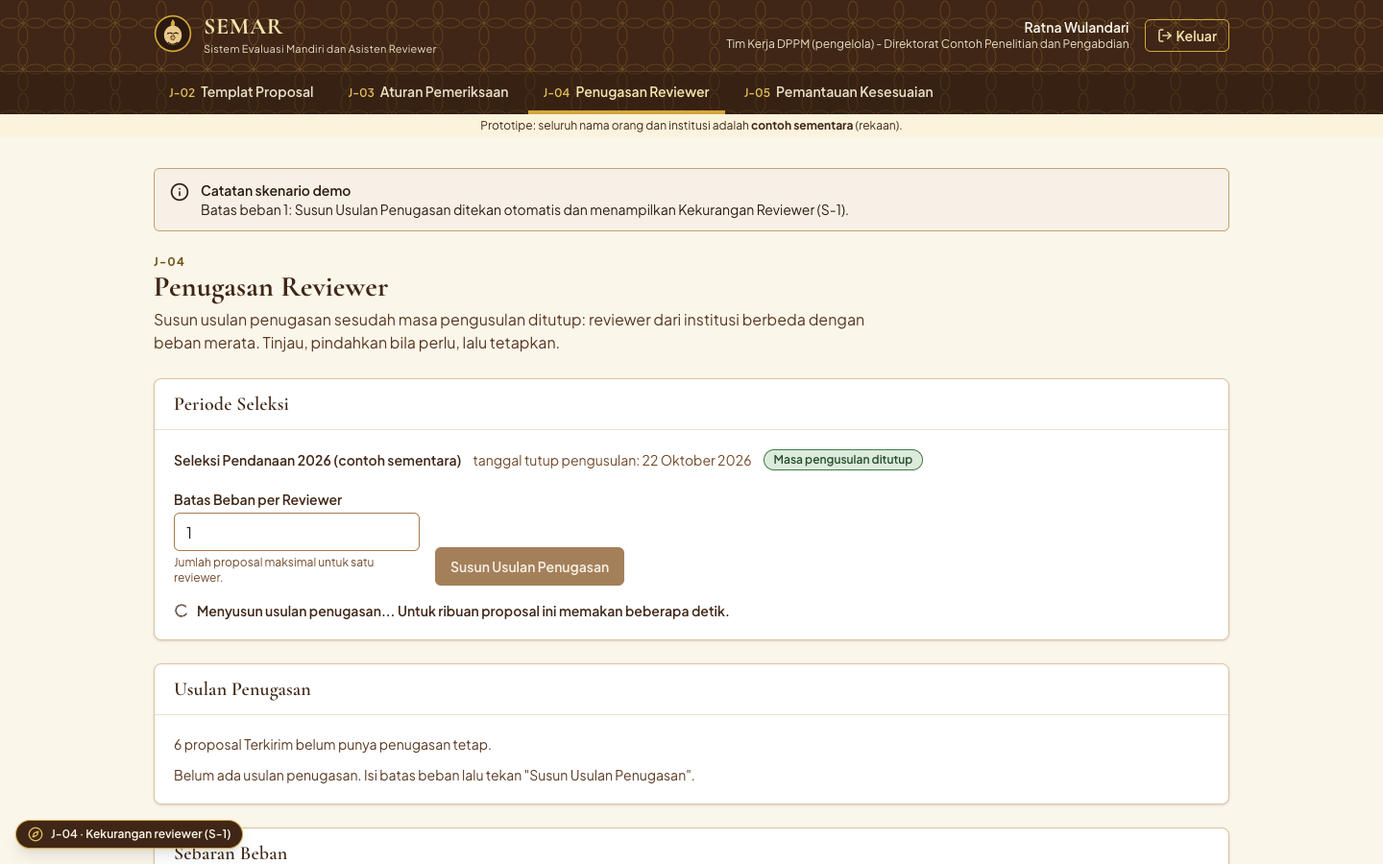
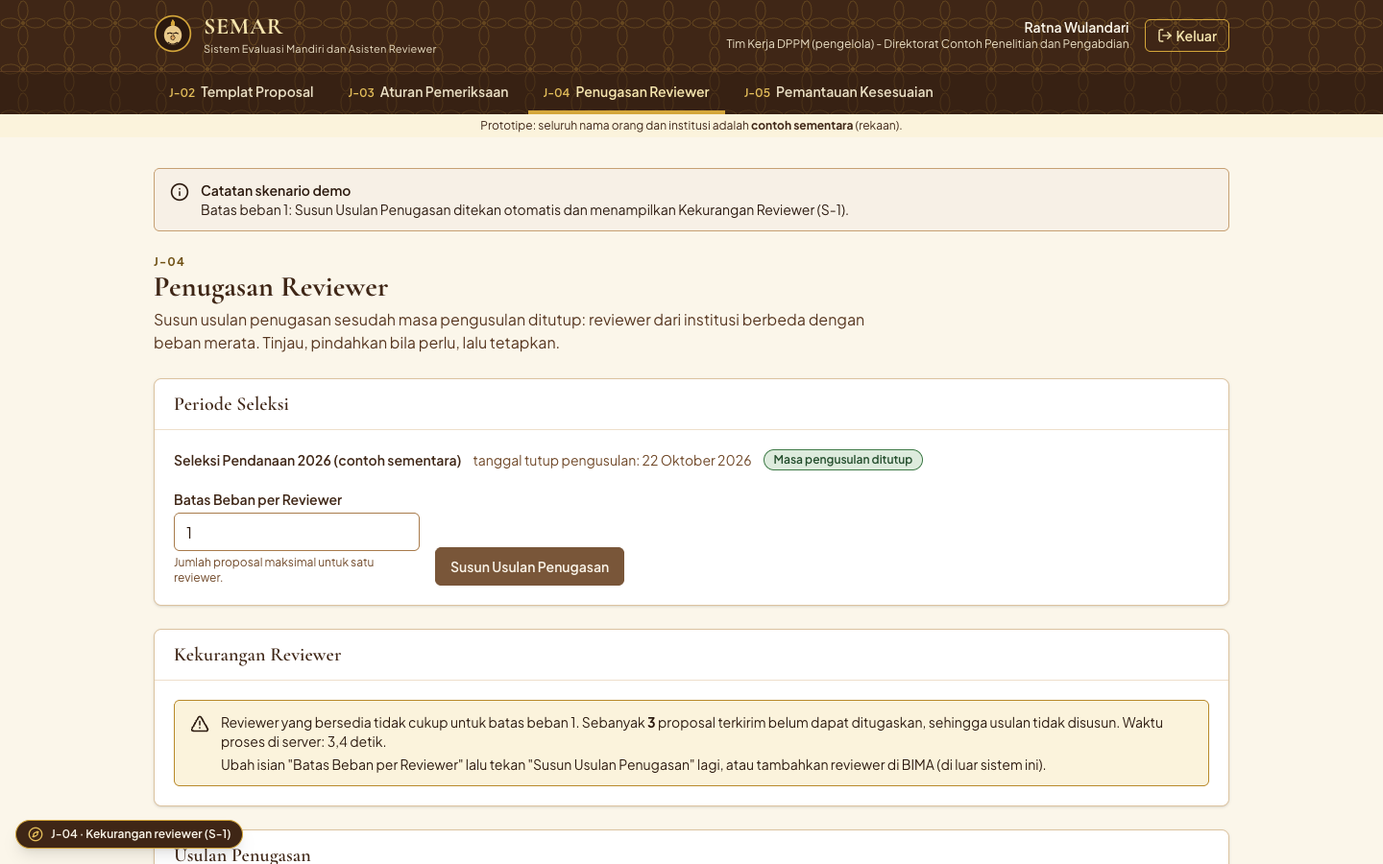
Data skala nyata tidak lagi dihapus skenario lain: kumpulan reviewer skala hanya rvw-skala-*, akun skala disembunyikan dari /bima/masuk, panel S-1 diuji lewat elemen, pil navigator menyebut skenario masuk J-01

Changed region(s): [[0.0938, 0.6222, 0.9062, 1.0]]

diff --git a/e2e/jalankan.ts b/e2e/jalankan.ts
@@ -827,7 +827,12 @@ async function utama() {
       await foto(page, "j04-menunggu");
       c("skenario menunggu: tabel Usulan Penugasan terisi");
 
-      await lewatNavigator("[data-skenario='kekurangan']", "Kekurangan Reviewer", 180_000);
+      await lewatNavigator("[data-skenario='kekurangan']", "Susun Usulan Penugasan", 180_000);
+      // Susun otomatis (?susun=1) harus benar-benar menampilkan panel S-1 di halaman (bukan sekadar teks banner skenario)
+      await page.waitForFunction(() => document.querySelector("#panel-kekurangan h2")?.textContent?.trim() === "Kekurangan Reviewer", { timeout: 180_000 }).catch(() => {
+        throw new Error("panel Kekurangan Reviewer (#panel-kekurangan) tidak muncul sesudah Susun otomatis");
+      });
+      yakin((await teksPanel("Kekurangan Reviewer")).includes("belum dapat ditugaskan"), "isi panel Kekurangan Reviewer tidak memuat jumlah proposal");
       await foto(page, "j04-kekurangan-navigator");
       c("skenario kekurangan: Susun otomatis dan panel Kekurangan Reviewer tampil");
 
@@ -846,7 +851,13 @@ async function utama() {
       await lewatNavigator("[data-skenario='anggota']", "Penugasan Reviewer");
       const menu = await page.$eval("nav[aria-label='Menu Tim Kerja DPPM']", (e) => e.textContent ?? "");
       yakin(!menu.includes("Templat Proposal") && menu.includes("Penugasan Reviewer") && menu.includes("Pemantauan Kesesuaian"), `menu anggota salah: ${menu}`);
+      await tunggu(1500); // hidrasi
+      const pilAnggota = await page.$eval("[data-testid=navigator-pil]", (e) => e.textContent ?? "");
+      yakin(pilAnggota.includes("J-01") && pilAnggota.includes("Masuk sebagai Tim Kerja (anggota)") && !pilAnggota.includes("belum dipilih"), `pil sesudah J-01 anggota salah: ${pilAnggota}`);
       await buka(page, url("/demo/mulai?j=J-01&s=reviewer"), "Daftar Penugasan");
+      await tunggu(1500);
+      const pilRev = await page.$eval("[data-testid=navigator-pil]", (e) => e.textContent ?? "");
+      yakin(pilRev.includes("J-01") && pilRev.includes("Masuk sebagai Reviewer"), `pil sesudah J-01 reviewer salah: ${pilRev}`);
       c("J-01: belum masuk, masuk sebagai anggota (menu J-04/J-05 saja), masuk sebagai reviewer (J-07)");
       // J-02
       await buka(page, url("/demo/mulai?j=J-02&s=tanpa-templat"), "Skema ini belum memiliki templat");
@@ -961,7 +972,7 @@ async function utama() {
       });
       await foto(page, "j04-skala-awal");
 
-      // S-1: batas 60 x ±124 reviewer < 10.000
+      // S-1: batas 60 x ±119 reviewer < 10.000
       await isi(page, "#batas", "60");
       t = Date.now();
       await klik(page, "Susun Usulan Penugasan");
@@ -998,7 +1009,7 @@ async function utama() {
       // sebaran semua reviewer
       const sebaran = await page.$eval("[data-testid=ringkasan-sebaran]", (e) => e.textContent ?? "");
       const m = sebaran.match(/(\d+) reviewer bersedia; jumlah proposal per reviewer terendah (\d+), tertinggi (\d+)/);
-      yakin(m && Number(m[1]) >= 120 && Number(m[3]) <= 100 && Number(m[3]) - Number(m[2]) <= 2, `sebaran beban tidak merata: ${sebaran}`);
+      yakin(m && Number(m[1]) >= 115 && Number(m[1]) <= 130 && Number(m[3]) <= 100 && Number(m[3]) - Number(m[2]) <= 2, `sebaran beban tidak merata: ${sebaran}`);
       const barisSebaran = await page.evaluate(() => {
         const tabel = [...document.querySelectorAll("table")].find((x) => x.querySelector("thead")?.textContent?.includes("Jumlah Proposal"))!;
         return tabel.querySelectorAll("tbody tr").length;
@@ -1025,12 +1036,13 @@ async function utama() {
       yakin((await teksPanel("Usulan Penugasan")).includes("Tidak ada usulan yang menunggu penetapan."), "sesudah ditetapkan seharusnya tidak ada usulan menunggu");
       await foto(page, "j04-skala-ditetapkan");
 
-      // kotak masuk BIMA: ringkasan, bukan 10.000 baris
-      await buka(page, url("/bima/kotak-masuk"), "Ringkasan");
+      // kotak masuk BIMA lewat navigator (B-2): pindah jendela tidak boleh menghapus data skala nyata; ringkasan, bukan 10.000 baris
+      await lewatNavigator("[data-jendela='BIMA-2']", "Ringkasan");
       const total = await page.$eval("[data-testid=total-penugasan]", (e) => e.textContent ?? "");
-      yakin(total === "10.000", `kotak masuk BIMA menerima ${total} penugasan, bukan 10.000`);
+      yakin(total === "10.000", `kotak masuk BIMA (B-2 lewat navigator) menerima ${total} penugasan, bukan 10.000`);
       const barisKotak = await page.$$eval("table tbody tr", (r) => r.length);
       yakin(barisKotak === 100, `kotak masuk seharusnya menampilkan 100 pesan terbaru, ada ${barisKotak}`);
+      yakin((await teksHalaman(page)).includes("SKL-2026-"), "kotak masuk B-2 tidak memuat pesan SKL sesudah pindah dari J-04 skala");
       await foto(page, "bima-kotak-masuk-skala");
       c("kotak masuk BIMA: 10.000 penugasan diterima tanpa ganda, ringkasan + 100 pesan terbaru");
       c(`CATATAN WAKTU: susun ${waktuSusun} dtk, tetapkan ${waktuTetapkan} dtk (klik sampai pesan, ${process.env.E2E_BASE_URL ? `produksi ${new URL(process.env.E2E_BASE_URL).host}` : "lokal ke Neon"})`);
@@ -1046,17 +1058,25 @@ async function utama() {
       yakin(/^[1-9]\d? reviewer bersedia/.test(sebaran), `reviewer skala nyata ikut tampil di skenario kecil: ${sebaran}`);
       c(`skenario siap-kecil sesudah skala nyata: ${waktu} dtk; ${sebaran.slice(0, 40)}`);
       await foto(page, "j04-siap-kecil-sesudah-skala");
-      // sisa skala nyata (penugasan reviewer contoh dan pesan SKL) tidak boleh bocor ke jendela reviewer dan BIMA
+      // penugasan skala nyata hanya untuk reviewer rvw-skala-*, jadi tidak bocor ke jendela reviewer contoh
       await buka(page, url("/demo/mulai?j=J-07&s=selesai"), "Daftar Penugasan");
       const baris = await page.$$eval("table tbody tr", (r) => r.map((x) => x.textContent ?? ""));
       yakin(baris.length === 1 && baris[0].includes("Selesai") && !baris[0].includes("Baru"), `J-07 Semua Selesai sesudah skala memuat ${baris.length} baris: ${baris.slice(0, 2).join(" | ").slice(0, 160)}`);
       await buka(page, url("/demo/mulai?j=J-07&s=baru"), "Daftar Penugasan");
       const barisBaru = await page.$$eval("table tbody tr", (r) => r.length);
       yakin(barisBaru === 1, `J-07 Baru sesudah skala memuat ${barisBaru} baris`);
-      await buka(page, url("/bima/kotak-masuk"), "Kotak masuk");
-      const sisaSkl = await page.evaluate(() => document.body.innerText.includes("SKL-2026-"));
-      yakin(!sisaSkl, "kotak masuk BIMA masih memuat pesan SKL sesudah meninggalkan skala nyata");
-      c("tidak ada sisa skala nyata: J-07 Semua Selesai dan Baru tepat 1 baris, kotak masuk BIMA tanpa pesan SKL");
+      // data skala nyata tetap ada di kotak masuk BIMA (B-2 normal) bersama pesan skenario kecil, sampai Reset & isi data demo
+      await buka(page, url("/demo/mulai?j=BIMA-2&s=normal"), "Ringkasan");
+      const totalSetelah = Number((await page.$eval("[data-testid=total-penugasan]", (e) => e.textContent ?? "0")).replace(/\./g, ""));
+      yakin(totalSetelah >= 10_000, `kotak masuk B-2 hanya memuat ${totalSetelah} penugasan; data skala nyata terhapus`);
+      // akun reviewer skala nyata tidak menjadi pilihan masuk
+      await buka(page, url("/bima/masuk"), "Masuk (simulasi)");
+      const ketSembunyi = await page.$eval("[data-testid=akun-skala-tersembunyi]", (e) => e.textContent ?? "");
+      yakin(ketSembunyi.includes("130 akun reviewer skala nyata disembunyikan"), `keterangan akun tersembunyi salah: ${ketSembunyi}`);
+      const jumlahAkun = await page.$$eval("a[href*='/api/bima/sesi/masuk']", (a) => a.length);
+      const adaSkala = await page.$$eval("a[href*='rvw-skala-']", (a) => a.length);
+      yakin(adaSkala === 0 && jumlahAkun < 30, `/bima/masuk menampilkan ${jumlahAkun} akun, ${adaSkala} akun skala`);
+      c(`J-07 Semua Selesai dan Baru tepat 1 baris (tanpa penugasan skala); kotak masuk B-2 tetap memuat ${totalSetelah} penugasan; /bima/masuk menyembunyikan akun skala (${jumlahAkun} akun tampil)`);
     });
 
     /* ---- akhir: basis data bersih ---- */

diff --git a/src/lib/penugasan/layanan.ts b/src/lib/penugasan/layanan.ts
@@ -9,7 +9,7 @@ import { akun, penugasanReviewer, periodeSeleksi, proposal, skemaPendanaan, vers
 import { pastikanAkunMassal } from "@/lib/auth";
 import { bima, BimaGagalError } from "@/lib/bima/client";
 import { catatLogAudit } from "@/lib/audit";
-import { ambilPeriodeAktif, masaPengusulanBerjalan } from "@/lib/waktu";
+import { ambilPeriodeAktif, masaPengusulanBerjalan, NAMA_PERIODE_SKALA } from "@/lib/waktu";
 import type { BarisUsulanPenugasan, HasilPilihReviewer, HasilSusunPenugasan, SebaranBeban } from "@/lib/kontrak/tipe";
 import { periksaSyarat, susunUsulanMurni } from "./aturan";
 
@@ -25,6 +25,19 @@ export class MasaBelumDitutupError extends Error {
     this.name = "MasaBelumDitutupError";
   }
 }
+
+/** Awalan idBima reviewer massal skenario skala nyata (lihat demo/skala.ts). */
+const AWALAN_REVIEWER_SKALA = "rvw-skala-";
+
+/**
+ * Kumpulan reviewer yang boleh dipakai pada satu periode: periode skala nyata hanya memakai reviewer rvw-skala-* (reviewer contoh
+ * reviewer-1..5 tidak ikut dibagi), periode lain tidak pernah memakai reviewer rvw-skala-*.
+ */
+async function periodeSkala(periodeId: string): Promise<boolean> {
+  const [p] = await getDb().select({ nama: periodeSeleksi.nama }).from(periodeSeleksi).where(eq(periodeSeleksi.id, periodeId));
+  return !!p && p.nama.startsWith(NAMA_PERIODE_SKALA);
+}
+const dalamKumpulan = (idBima: string, skala: boolean) => idBima.startsWith(AWALAN_REVIEWER_SKALA) === skala;
 
 /** Beban = jumlah penugasan reviewer pada periode (semua status), kecuali penugasan yang dikecualikan. Dihitung di basis data (GROUP BY). */
 async function bebanPerReviewer(periodeId: string, kecualiPenugasanId?: string): Promise<Record<string, number>> {
@@ -107,7 +120,8 @@ export async function ambilUsulan(
 /** Tabel "Sebaran Beban": jumlah proposal setiap reviewer yang bersedia terhadap batas (semua reviewer, bukan hanya satu halaman). */
 export async function ambilSebaranBeban(periodeId: string, batas: number): Promise<SebaranBeban[]> {
   const db = getDb();
-  const reviewer = await db.select().from(akun).where(and(eq(akun.peran, "reviewer"), eq(akun.bersedia, true)));
+  const skala = await periodeSkala(periodeId);
+  const reviewer = (await db.select().from(akun).where(and(eq(akun.peran, "reviewer"), eq(akun.bersedia, true)))).filter((r) => dalamKumpulan(r.idBima, skala));
   const beban = await bebanPerReviewer(periodeId);
   return reviewer
     .map((r) => ({ reviewerId: r.id, namaReviewer: r.nama, jumlah: beban[r.id] ?? 0, batas }))
@@ -140,7 +154,8 @@ export async function susunPenugasan(periodeId: string, batasBeban: number): Pro
   await tetapkanBatasBeban(periodeId, batasBeban);
 
   // ambilDaftarReviewer() melalui API BIMA (client mengulang otomatis maksimal 2 kali)
-  const daftar = (await ambilDaftarReviewer()).filter((r) => r.bersedia);
+  const skala = await periodeSkala(periodeId);
+  const daftar = (await ambilDaftarReviewer()).filter((r) => r.bersedia && dalamKumpulan(r.idBima, skala));
   tandai("daftarReviewerBima");
   const reviewerSemar = (await pastikanAkunMassal(daftar.map((r) => r.idBima))).filter((a) => a.peran === "reviewer");
   tandai("salinAkunReviewer");
@@ -248,6 +263,9 @@ export async function pilihReviewer(penugasanId: string, reviewerBaruId: string,
   const [pengusul] = await db.select().from(akun).where(eq(akun.id, pr.pengusulId));
   const [baru] = await db.select().from(akun).where(eq(akun.id, reviewerBaruId));
   if (!baru || baru.peran !== "reviewer") {
+    return { reviewerId: pn.reviewerId, diterima: false, syaratDilanggar: ["Reviewer pengganti tidak ditemukan."] };
+  }
+  if (!dalamKumpulan(baru.idBima, await periodeSkala(pn.periodeId))) {
     return { reviewerId: pn.reviewerId, diterima: false, syaratDilanggar: ["Reviewer pengganti tidak ditemukan."] };
   }
   if (baru.id === pn.reviewerId) return { reviewerId: pn.reviewerId, diterima: true, syaratDilanggar: [] };
@@ -364,7 +382,8 @@ export interface KandidatPengganti {
 
 /** Pilihan "Reviewer Pengganti" (S-2): reviewer yang bersedia beserta bebannya saat ini. */
 export async function ambilKandidatPengganti(periodeId: string): Promise<KandidatPengganti[]> {
-  const reviewer = await getDb().select().from(akun).where(and(eq(akun.peran, "reviewer"), eq(akun.bersedia, true)));
+  const skala = await periodeSkala(periodeId);
+  const reviewer = (await getDb().select().from(akun).where(and(eq(akun.peran, "reviewer"), eq(akun.bersedia, true)))).filter((r) => dalamKumpulan(r.idBima, skala));
   const beban = await bebanPerReviewer(periodeId);
   return reviewer
     .map((r) => ({ id: r.id, nama: r.nama, institusi: r.institusi, beban: beban[r.id] ?? 0 }))

diff --git a/src/lib/demo/skenario.ts b/src/lib/demo/skenario.ts
@@ -19,7 +19,7 @@ import { ambilAturanBerlaku, ambilPeriodeBerjalan, ambilTemplatBerlaku } from "@
 import { susunPenugasan, tetapkanPenugasan } from "@/lib/penugasan/layanan";
 import { susunVersiBaru } from "@/lib/templat/layanan";
 import { setPeriodeAktif, ubahPengaturanDemo } from "@/lib/waktu";
-import { nonaktifkanReviewerSkala, siapkanSkalaNyata } from "./skala";
+import { siapkanSkalaNyata } from "./skala";
 
 const DOCX = "application/vnd.openxmlformats-officedocument.wordprocessingml.document";
 
@@ -348,9 +348,9 @@ async function bersihkanDrafTemplat() {
 /* ------------------------------ pintu masuk ------------------------------ */
 
 export async function siapkanJalanPintas(kode: KodeJalanPintas, opsi: { langsungJ08?: boolean } = {}): Promise<HasilSiapkan> {
-  // skenario skala nyata J-04 tidak boleh bocor: periode J-04 kembali ke periode utama dan reviewer massal tidak bersedia lagi
+  // skenario skala nyata J-04 tidak boleh bocor ke jendela lain: periode J-04 kembali ke periode utama. Data skala nyata tetap
+  // tersimpan (kumpulan reviewernya hanya rvw-skala-*, jadi tidak menyentuh reviewer contoh) sampai "Reset & isi data demo".
   await setPeriodeAktif(null);
-  await nonaktifkanReviewerSkala();
   switch (kode) {
     case "UC-01-S1": {
       const skemaId = await pastikanSkemaTanpaTemplat();
@@ -522,7 +522,7 @@ export async function siapkanSkenario(kodeJendela: string, id: string): Promise<
   const db = getDb();
   const kunci = `${kodeJendela}/${id}`;
 
-  // skala nyata mengaktifkan periode sendiri; semua skenario lain mengembalikan periode utama dan menonaktifkan reviewer massal
+  // skala nyata mengaktifkan periode sendiri; semua skenario lain mengembalikan periode utama (data skala nyata tidak dihapus)
   if (kunci === "J-04/skala") {
     const h = await siapkanSkalaNyata();
     const detik = (h.waktuBuatMs / 1000).toFixed(1);
@@ -533,7 +533,6 @@ export async function siapkanSkenario(kodeJendela: string, id: string): Promise<
     };
   }
   await setPeriodeAktif(null);
-  await nonaktifkanReviewerSkala(); // juga menghapus penugasan dan pesan kotak masuk sisa skala nyata
   // jendela reviewer tidak boleh memuat penugasan klon sisa J-04 (Ditetapkan/Diusulkan) pada reviewer contoh
   if (kodeJendela === "J-07" || kodeJendela === "J-08" || kunci === "J-01/reviewer") await daurUlangPenugasanKlon();
 

diff --git a/src/lib/demo/skala.ts b/src/lib/demo/skala.ts
@@ -66,27 +66,6 @@ export interface HasilSiapkanSkala {
   waktuAturMs: number;
 }
 
-/**
- * Skenario selain skala nyata tidak boleh melihat sisa skala nyata: penugasan periode skala (reviewer contoh reviewer-1..5 ikut dibagi
- * saat Tetapkan) dan pesan SKL di kotak masuk BIMA dihapus, lalu reviewer massal dinonaktifkan. Murah bila tidak ada sisa.
- */
-export async function nonaktifkanReviewerSkala(): Promise<void> {
-  const db = getDb();
-  const sisa = await db.execute(sql`SELECT 1 FROM penugasan_reviewer pr JOIN periode_seleksi p ON p.id = pr.periode_id WHERE p.nama LIKE ${NAMA_PERIODE_SKALA + "%"} LIMIT 1`);
-  if ((sisa as unknown as { rows: unknown[] }).rows.length) {
-    await db.execute(sql`DELETE FROM penugasan_reviewer WHERE periode_id IN (SELECT id FROM periode_seleksi WHERE nama LIKE ${NAMA_PERIODE_SKALA + "%"})`);
-  }
-  const pesan = await db.execute(sql`SELECT 1 FROM bima_kotak_masuk WHERE id_proposal LIKE ${AWALAN_ID_PROPOSAL + "%"} LIMIT 1`);
-  if ((pesan as unknown as { rows: unknown[] }).rows.length) {
-    await db.execute(sql`DELETE FROM bima_kotak_masuk WHERE id_proposal LIKE ${AWALAN_ID_PROPOSAL + "%"}`);
-  }
-  const [{ ada }] = await db.select({ ada: sql<number>`count(*)::int` }).from(s.akun).where(sql`${s.akun.idBima} like ${AWALAN_REVIEWER + "%"} and ${s.akun.bersedia}`);
-  if (!ada) return; // tidak ada yang perlu diubah; skenario kecil tidak membayar apa pun
-  await db.update(s.akun).set({ bersedia: false }).where(like(s.akun.idBima, `${AWALAN_REVIEWER}%`));
-  await db.update(s.bimaAkun).set({ bersedia: false }).where(like(s.bimaAkun.idBima, `${AWALAN_REVIEWER}%`));
-  await db.update(s.bimaReviewer).set({ bersedia: false }).where(like(s.bimaReviewer.idBima, `${AWALAN_REVIEWER}%`));
-}
-
 /** Kesediaan reviewer skala nyata bervariasi: setiap reviewer ke-11 tidak bersedia. */
 async function pasangKesediaanSkala(): Promise<void> {
   const db = getDb();

diff --git a/src/lib/demo/katalog.ts b/src/lib/demo/katalog.ts
@@ -10,6 +10,8 @@ export interface SkenarioDemo {
   nama: string;
   /** keadaan yang disiapkan, satu kalimat */
   ringkas: string;
+  /** kode jendela tempat skenario ini mendarat bila bukan jendelanya sendiri (J-01: masuk lalu diarahkan); pil tetap menyebut skenario ini di sana */
+  mendaratDi?: string;
 }
 
 export interface JendelaDemo {
@@ -32,9 +34,9 @@ export const KATALOG_JENDELA: JendelaDemo[] = [
     rute: ["/masuk"],
     skenario: [
       { id: "belum-masuk", nama: "Belum masuk", ringkas: "Sesi dihapus; halaman Masuk dengan akun BIMA." },
-      { id: "pengelola", nama: "Masuk sebagai Tim Kerja (pengelola)", ringkas: "Sesi pengelola dipasang; tujuan sesudah masuk: J-02." },
-      { id: "anggota", nama: "Masuk sebagai Tim Kerja (anggota)", ringkas: "Sesi anggota dipasang; tujuan sesudah masuk: J-04 (menu J-04 dan J-05)." },
-      { id: "reviewer", nama: "Masuk sebagai Reviewer", ringkas: "Sesi reviewer-2 dipasang; tujuan sesudah masuk: J-07." },
+      { id: "pengelola", nama: "Masuk sebagai Tim Kerja (pengelola)", ringkas: "Sesi pengelola dipasang; tujuan sesudah masuk: J-02.", mendaratDi: "J-02" },
+      { id: "anggota", nama: "Masuk sebagai Tim Kerja (anggota)", ringkas: "Sesi anggota dipasang; tujuan sesudah masuk: J-04 (menu J-04 dan J-05).", mendaratDi: "J-04" },
+      { id: "reviewer", nama: "Masuk sebagai Reviewer", ringkas: "Sesi reviewer-2 dipasang; tujuan sesudah masuk: J-07.", mendaratDi: "J-07" },
     ],
   },
   {

diff --git a/src/components/layout/navigator-demo.tsx b/src/components/layout/navigator-demo.tsx
@@ -61,6 +61,8 @@ export function NavigatorDemo() {
   const [kodeCookie, idCookie] = cookieSkenario?.split("/") ?? [];
   const jendelaCookie = kodeCookie ? cariJendela(kodeCookie) : undefined;
   const skenarioCookie = kodeCookie && idCookie ? cariSkenario(kodeCookie, idCookie) : undefined;
+  // skenario J-01 (masuk) mendarat di jendela lain (J-02/J-04/J-07): pil di sana tetap menyebut skenario masuk yang dipilih
+  const mendarat = jendela && skenarioCookie?.mendaratDi === jendela.kode;
   const aktifDiJendela = jendela && kodeCookie === jendela.kode ? idCookie : undefined;
 
   // papan pintas global
@@ -143,7 +145,9 @@ export function NavigatorDemo() {
   const labelPil = menyiapkan
     ? `Menyiapkan ${menyiapkan}...`
     : jendela
-      ? aktifDiJendela && skenarioCookie
+      ? mendarat && skenarioCookie && jendelaCookie
+        ? `${jendelaCookie.kode} · ${skenarioCookie.nama}`
+        : aktifDiJendela && skenarioCookie
         ? `${jendela.kode.startsWith("BIMA") ? namaPendek(jendela) : jendela.kode} · ${skenarioCookie.nama}`
         : `${jendela.kode.startsWith("BIMA") ? namaPendek(jendela) : jendela.kode} · skenario belum dipilih`
       : "Navigator demo";

diff --git a/src/app/bima/masuk/page.tsx b/src/app/bima/masuk/page.tsx
@@ -20,7 +20,10 @@ const kelompok = [
 export default async function MasukBima({ searchParams }: { searchParams: Promise<{ kembali?: string; lanjut?: string; galat?: string }> }) {
   const q = await searchParams;
   const kembali = jalurAman(q.kembali, "/bima/pengajuan");
-  const akun = await getDb().select().from(bimaAkun);
+  const semua = await getDb().select().from(bimaAkun);
+  // 130 akun reviewer skenario skala nyata (rvw-skala-*) tidak ditampilkan sebagai pilihan masuk
+  const akun = semua.filter((a) => !a.idBima.startsWith("rvw-skala-"));
+  const tersembunyi = semua.length - akun.length;
   return (
     <section>
       <h1 className="text-2xl font-bold">Masuk (simulasi)</h1>
@@ -53,6 +56,11 @@ export default async function MasukBima({ searchParams }: { searchParams: Promis
           </div>
         ))}
       </div>
+      {tersembunyi > 0 ? (
+        <p data-testid="akun-skala-tersembunyi" className="mt-4 text-xs text-slate-500">
+          {tersembunyi} akun reviewer skala nyata disembunyikan.
+        </p>
+      ) : null}
       <p className="mt-6 text-xs text-slate-500">Nama dan institusi adalah contoh sementara (rekaan).</p>
     </section>
   );

diff --git a/src/app/(semar)/tim-kerja/penugasan/papan-penugasan.tsx b/src/app/(semar)/tim-kerja/penugasan/papan-penugasan.tsx
@@ -187,7 +187,7 @@ export function PapanPenugasan({
       </Panel>
 
       {hasilSusun.kekurangan ? (
-        <Panel judul="Kekurangan Reviewer">
+        <Panel id="panel-kekurangan" judul="Kekurangan Reviewer">
           <Alert jenis="peringatan">
             <p>
               Reviewer yang bersedia tidak cukup untuk batas beban {hasilSusun.batasDipakai ?? batas}. Sebanyak <strong>{angka.format(hasilSusun.kekurangan)}</strong> proposal terkirim belum

diff --git a/docs/bukti-e2e/laporan.md b/docs/bukti-e2e/laporan.md
@@ -1,35 +1,35 @@
 # Laporan uji ujung ke ujung SEMAR
 
-Dijalankan: 2026-10-22T04:38:52.746Z. Sasaran: server lokal (next start). Mode LLM: tiruan. Hasil: 26 dari 26 skenario lulus.
+Dijalankan: 2026-10-22T05:23:03.444Z. Sasaran: server lokal (next start). Mode LLM: tiruan. Hasil: 26 dari 26 skenario lulus.
 
 | Skenario | Hasil | Catatan |
 |---|---|---|
 | Beranda dan J-01 Masuk | lulus | beranda memuat tautan Buka Pusat Demo dan Masuk; J-01 memuat Masuk dengan akun BIMA; tanpa galat konsol (0.5 dtk) |
-| /demo: Reset & isi data demo | lulus | seed berhasil lewat tombol; sakelar masa pengusulan berpindah ke berjalan; tanpa galat konsol (26.6 dtk) |
+| /demo: Reset & isi data demo | lulus | seed berhasil lewat tombol; sakelar masa pengusulan berpindah ke berjalan; tanpa galat konsol (19.1 dtk) |
 | SSO J-01 dan guard peran | lulus | anggota Tim Kerja masuk ke J-04; anggota diarahkan dengan ?galat=akses saat membuka J-02; tanpa galat konsol (8.1 dtk) |
-| UC-05a: proposal lolos semua butir (Terkirim) | lulus | J-06 menampilkan Terkirim, daftar butir Lolos, Bukti Pengiriman, Kembali ke BIMA; tanpa galat konsol (30.3 dtk) |
-| UC-05b / UC-06: ada butir gagal (Ditahan) | lulus | butir Gagal paling atas: Bagian "Metode" tidak melebihi 1200 kata KTA-04 Metode Gagal 1.321 kata dari batas 1.200 (lebih 121 kata) Batas yang dil; J-06 menampilkan Ditahan, butir Gagal dengan batas dan angka pembukti, tanpa bukti pengiriman; tombol Kembali ke BIMA berfungsi; S-1.3/S-1.4: ajukan ulang dengan naskah perbaikan menghasilkan Terkirim, kode versi V2, bukti pengiriman; tanpa galat konsol (59.1 dtk) |
-| UC-05c: ditahan lalu ditolak karena masa pengusulan ditutup (3a) | lulus | Ditahan lebih dulu, lalu Ditolak setelah masa ditutup; pesan 3a.2 memuat tanggal tutup (22 Oktober 2026); tanpa galat konsol (36.2 dtk) |
-| UC-01: menyusun templat (jalur utama, S-2) | lulus | S-2: pesan Lengkapi isian yang ditandai dan isian bertanda; jalur utama: templat versi baru terbit, jumlah butir draf dan tombol Buka Aturan Pemeriksaan tampil; tanpa galat konsol (15.4 dtk) |
-| UC-01 9a: masa pengusulan berjalan, templat disimpan sebagai draf | lulus | pesan 9a persis; templat berlaku tidak berubah; tanpa galat konsol (10.3 dtk) |
-| UC-01 S-1: skema belum punya templat | lulus | S-1: keterangan Skema ini belum memiliki templat; Susun Versi Baru membuat versi 1; tanpa galat konsol (9.4 dtk) |
-| UC-02: aturan pemeriksaan (jalur utama, 4a, 8a) | lulus | 4a: pesan penolakan dan tombol Buka Templat Proposal, panel tidak dibuka; butir manual semantik ditambahkan; Uji pada Contoh menampilkan panel Hasil Uji; 8a: tanggal berlaku di tengah masa pengusulan ditolak; jalur utama: Simpan Versi menampilkan pesan basis aturan versi baru tersimpan; tanpa galat konsol (26.0 dtk) |
-| UC-03: menugaskan reviewer (jalur utama, S-1, S-2) | lulus | S-1: panel Kekurangan Reviewer tampil; tabel Usulan Penugasan (6 baris) dan Sebaran Beban tampil; baris pertama usulan: pengusul=Universitas Nusantara Contoh; reviewer=Dr. Citra Lestari; S-2: pemindahan ke reviewer sealmamater ditolak dengan syarat yang dilanggar; S-2: pemindahan yang memenuhi syarat mengganti reviewer; pesan penugasan ditetapkan dan tercatat di BIMA; kotak masuk BIMA tiruan menerima penugasan; tanpa galat konsol (58.8 dtk) |
-| UC-04: memantau kesesuaian (jalur utama, S-1, tandai butir) | lulus | tiga bagian laporan tampil; S-1: panel Rincian Butir terbuka dan ditutup dengan Tutup; butir yang ditandai berlabel Perlu ditinjau dan tampil di J-03; tanpa galat konsol (39.7 dtk) |
+| UC-05a: proposal lolos semua butir (Terkirim) | lulus | J-06 menampilkan Terkirim, daftar butir Lolos, Bukti Pengiriman, Kembali ke BIMA; tanpa galat konsol (22.5 dtk) |
+| UC-05b / UC-06: ada butir gagal (Ditahan) | lulus | butir Gagal paling atas: Bagian "Metode" tidak melebihi 1200 kata KTA-04 Metode Gagal 1.321 kata dari batas 1.200 (lebih 121 kata) Batas yang dil; J-06 menampilkan Ditahan, butir Gagal dengan batas dan angka pembukti, tanpa bukti pengiriman; tombol Kembali ke BIMA berfungsi; S-1.3/S-1.4: ajukan ulang dengan naskah perbaikan menghasilkan Terkirim, kode versi V2, bukti pengiriman; tanpa galat konsol (42.8 dtk) |
+| UC-05c: ditahan lalu ditolak karena masa pengusulan ditutup (3a) | lulus | Ditahan lebih dulu, lalu Ditolak setelah masa ditutup; pesan 3a.2 memuat tanggal tutup (22 Oktober 2026); tanpa galat konsol (38.0 dtk) |
+| UC-01: menyusun templat (jalur utama, S-2) | lulus | S-2: pesan Lengkapi isian yang ditandai dan isian bertanda; jalur utama: templat versi baru terbit, jumlah butir draf dan tombol Buka Aturan Pemeriksaan tampil; tanpa galat konsol (13.5 dtk) |
+| UC-01 9a: masa pengusulan berjalan, templat disimpan sebagai draf | lulus | pesan 9a persis; templat berlaku tidak berubah; tanpa galat konsol (10.0 dtk) |
+| UC-01 S-1: skema belum punya templat | lulus | S-1: keterangan Skema ini belum memiliki templat; Susun Versi Baru membuat versi 1; tanpa galat konsol (8.7 dtk) |
+| UC-02: aturan pemeriksaan (jalur utama, 4a, 8a) | lulus | 4a: pesan penolakan dan tombol Buka Templat Proposal, panel tidak dibuka; butir manual semantik ditambahkan; Uji pada Contoh menampilkan panel Hasil Uji; 8a: tanggal berlaku di tengah masa pengusulan ditolak; jalur utama: Simpan Versi menampilkan pesan basis aturan versi baru tersimpan; tanpa galat konsol (23.3 dtk) |
+| UC-03: menugaskan reviewer (jalur utama, S-1, S-2) | lulus | S-1: panel Kekurangan Reviewer tampil; tabel Usulan Penugasan (6 baris) dan Sebaran Beban tampil; baris pertama usulan: pengusul=Universitas Nusantara Contoh; reviewer=Prof. Wahyu Setiaji; S-2: pemindahan ke reviewer sealmamater ditolak dengan syarat yang dilanggar; S-2: pemindahan yang memenuhi syarat mengganti reviewer; pesan penugasan ditetapkan dan tercatat di BIMA; kotak masuk BIMA tiruan menerima penugasan; tanpa galat konsol (63.1 dtk) |
+| UC-04: memantau kesesuaian (jalur utama, S-1, tandai butir) | lulus | tiga bagian laporan tampil; S-1: panel Rincian Butir terbuka dan ditutup dengan Tutup; butir yang ditandai berlabel Perlu ditinjau dan tampil di J-03; tanpa galat konsol (39.2 dtk) |
 | UC-07a: menyetujui seluruh rekomendasi (tanpa koreksi) | lulus | rekomendasi tidak dikoreksi (dihitung disetujui), Simpan Permanen berhasil dan terkirim ke BIMA; tanpa galat konsol (13.4 dtk) |
-| UC-07c: menyimpan sementara lalu melanjutkan (Draf sudah terisi) | lulus | J-07 berlabel Draf; J-08 memuat ulang umpan balik dan keputusan komponen tersimpan; tanpa galat konsol (11.6 dtk) |
-| UC-07b/UC-08: pemeriksaan reviewer (jalur utama, S-1 alasan kosong, 4a Batal, simpan sementara dan permanen) | lulus | J-08 terbuka dalam 1.8 dtk; mengklik butir menyorot kutipan (mark) di panel kiri; S-1: pesan Alasan koreksi wajib diisi dengan bingkai merah; 4a: Batal menutup panel koreksi; koreksi tersimpan dan butir berlabel Dikoreksi reviewer; S-1 UC-07: Simpan Sementara menghasilkan label Draf di J-07; draf dan koreksi dimuat ulang saat Periksa lagi; Simpan Permanen: pesan Penilaian tersimpan dan terkirim ke BIMA, isian hanya-baca; tanpa galat konsol (31.0 dtk) |
-| UC-09 S-1: kutipan LLM tidak ditemukan (Perlu diperiksa manual) | lulus | label Perlu diperiksa manual tampil pada butir yang kutipannya tidak ditemukan; tanpa galat konsol (11.1 dtk) |
-| UC-09 S-2: LLM tidak merespons (Belum ada rekomendasi) | lulus | label Belum ada rekomendasi tampil; reviewer tetap dapat menilai; tanpa galat konsol (8.6 dtk) |
-| Reviewer lain mendapat 403 di J-08 | lulus | halaman J-08 milik reviewer lain menampilkan 403 Akses ditolak; route data J-08 mengembalikan HTTP 403; tanpa galat konsol (2.8 dtk) |
-| Jalan pintas UC-06, UC-08, UC-09 membuka jendela yang benar | lulus | UC-06 membuka halaman pengajuan BIMA (proposal gagal jumlah kata); UC-08 dan UC-09 membuka J-08 langsung; panel langkah lama tidak ada lagi; navigator menggantikannya; tanpa galat konsol (26.8 dtk) |
-| Navigator demo: pindah antar-jendela dan peran dipasang otomatis | lulus | navigator memuat 10 jendela dan menandai J-03 sebagai jendela yang dibuka; J-04 terbuka sebagai Tim Kerja; J-07 terbuka sebagai reviewer (Dr. Intan Maharani) tanpa login manual; semua jendela J-01..J-08 dan dua halaman BIMA dapat dibuka dari navigator; tanpa galat konsol (87.0 dtk) |
-| Navigator demo: J-04 kosong versus berisi data, skenario aktif ditampilkan | lulus | skenario Kosong: kedua pesan keadaan kosong tampil dan pil menyebut skenario aktif; pindah ke skenario siap-kecil: pesan kosong hilang, jumlah proposal siap disusun tampil; siap-kecil memuat tepat enam proposal; navigator ciut tidak menutupi isian Batas Beban sesudah pindah skenario; pil di jendela yang dibuka lewat menu tidak menyebut skenario jendela lain (J-05 · skenario belum dipilih); skenario menunggu: tabel Usulan Penugasan terisi; skenario kekurangan: Susun otomatis dan panel Kekurangan Reviewer tampil; skenario ditetapkan: penugasan yang sudah ditetapkan tampil; kotak masuk BIMA memuat penugasan dari skenario ditetapkan; tanpa galat konsol (99.3 dtk) |
-| Navigator demo: skenario di J-01, J-02, J-03, J-05, J-06, J-07, J-08, BIMA | lulus | J-01: belum masuk, masuk sebagai anggota (menu J-04/J-05 saja), masuk sebagai reviewer (J-07); J-02: tanpa templat (S-1), masa berjalan (9a), draf tersimpan dibuka kembali; J-03: butir Perlu ditinjau muncul pada skenario khusus dan hilang pada skenario normal; J-05: belum ada penilaian final lalu data pemantauan contoh; J-06: Terkirim, Ditahan, Ditolak, dan Sedang diperiksa; J-07: kosong, Baru, Draf, Selesai; J-08: final hanya-baca, perlu diperiksa manual, belum ada rekomendasi, draf, normal; BIMA tiruan: halaman pengajuan membuka draf siap diajukan; tanpa galat konsol (211.9 dtk) |
-| Navigator demo: sakelar masa pengusulan, papan ketik, dan ciut | lulus | sakelar masa pengusulan di navigator mengganti keadaan J-04 (berjalan lalu ditutup); papan ketik: Esc menciutkan, Alt+Shift+N membuka, fokus pindah ke panel, Tab menjangkau tombol; navigator ciut tidak menutupi tombol utama di J-04 (viewport 1440x900); tanpa galat konsol (15.9 dtk) |
-| J-04 skala nyata: 10.000 proposal (S-1, susun, halaman, sebaran, tetapkan, kotak masuk BIMA) | lulus | menyiapkan skenario skala nyata (buka J-04): 17.0 dtk; S-1 batas 60: panel Kekurangan Reviewer tampil (7.3 dtk); Susun Usulan Penugasan 10.000 proposal: 16.5 dtk dari klik sampai pesan (Waktu proses di server: 11,6 detik); tabel Usulan Penugasan 50 baris dari 10.000 (halaman 1 dari 200); Sebaran Beban 124 reviewer, 124 reviewer bersedia; jumlah proposal per reviewer terendah 80, tertinggi 81, rata-rata 80,6, batas 100.; halaman 2 usulan terbuka dalam 2.0 dtk; Tetapkan Penugasan 10.000 proposal: 5.0 dtk dari klik sampai pesan (Waktu proses di server: 4,7 detik); kotak masuk BIMA: 10.000 penugasan diterima tanpa ganda, ringkasan + 100 pesan terbaru; CATATAN WAKTU: susun 16.5 dtk, tetapkan 5.0 dtk (klik sampai pesan, lokal ke Neon); tanpa galat konsol (50.8 dtk) |
-| Skenario kecil tidak terpengaruh data skala nyata | lulus | skenario siap-kecil sesudah skala nyata: 7.5 dtk; 5 reviewer bersedia; jumlah proposal per; tidak ada sisa skala nyata: J-07 Semua Selesai dan Baru tepat 1 baris, kotak masuk BIMA tanpa pesan SKL; tanpa galat konsol (24.9 dtk) |
-| Akhir: Reset & isi data demo (basis data bersih) | lulus | reset selesai; /demo memuat 36 kartu skenario per jendela dan tanpa navigator mengambang; tanpa galat konsol (20.0 dtk) |
+| UC-07c: menyimpan sementara lalu melanjutkan (Draf sudah terisi) | lulus | J-07 berlabel Draf; J-08 memuat ulang umpan balik dan keputusan komponen tersimpan; tanpa galat konsol (10.3 dtk) |
+| UC-07b/UC-08: pemeriksaan reviewer (jalur utama, S-1 alasan kosong, 4a Batal, simpan sementara dan permanen) | lulus | J-08 terbuka dalam 1.8 dtk; mengklik butir menyorot kutipan (mark) di panel kiri; S-1: pesan Alasan koreksi wajib diisi dengan bingkai merah; 4a: Batal menutup panel koreksi; koreksi tersimpan dan butir berlabel Dikoreksi reviewer; S-1 UC-07: Simpan Sementara menghasilkan label Draf di J-07; draf dan koreksi dimuat ulang saat Periksa lagi; Simpan Permanen: pesan Penilaian tersimpan dan terkirim ke BIMA, isian hanya-baca; tanpa galat konsol (33.6 dtk) |
+| UC-09 S-1: kutipan LLM tidak ditemukan (Perlu diperiksa manual) | lulus | label Perlu diperiksa manual tampil pada butir yang kutipannya tidak ditemukan; tanpa galat konsol (9.4 dtk) |
+| UC-09 S-2: LLM tidak merespons (Belum ada rekomendasi) | lulus | label Belum ada rekomendasi tampil; reviewer tetap dapat menilai; tanpa galat konsol (8.1 dtk) |
+| Reviewer lain mendapat 403 di J-08 | lulus | halaman J-08 milik reviewer lain menampilkan 403 Akses ditolak; route data J-08 mengembalikan HTTP 403; tanpa galat konsol (2.9 dtk) |
+| Jalan pintas UC-06, UC-08, UC-09 membuka jendela yang benar | lulus | UC-06 membuka halaman pengajuan BIMA (proposal gagal jumlah kata); UC-08 dan UC-09 membuka J-08 langsung; panel langkah lama tidak ada lagi; navigator menggantikannya; tanpa galat konsol (25.6 dtk) |
+| Navigator demo: pindah antar-jendela dan peran dipasang otomatis | lulus | navigator memuat 10 jendela dan menandai J-03 sebagai jendela yang dibuka; J-04 terbuka sebagai Tim Kerja; J-07 terbuka sebagai reviewer (Dr. Intan Maharani) tanpa login manual; semua jendela J-01..J-08 dan dua halaman BIMA dapat dibuka dari navigator; tanpa galat konsol (75.7 dtk) |
+| Navigator demo: J-04 kosong versus berisi data, skenario aktif ditampilkan | lulus | skenario Kosong: kedua pesan keadaan kosong tampil dan pil menyebut skenario aktif; pindah ke skenario siap-kecil: pesan kosong hilang, jumlah proposal siap disusun tampil; siap-kecil memuat tepat enam proposal; navigator ciut tidak menutupi isian Batas Beban sesudah pindah skenario; pil di jendela yang dibuka lewat menu tidak menyebut skenario jendela lain (J-05 · skenario belum dipilih); skenario menunggu: tabel Usulan Penugasan terisi; skenario kekurangan: Susun otomatis dan panel Kekurangan Reviewer tampil; skenario ditetapkan: penugasan yang sudah ditetapkan tampil; kotak masuk BIMA memuat penugasan dari skenario ditetapkan; tanpa galat konsol (112.3 dtk) |
+| Navigator demo: skenario di J-01, J-02, J-03, J-05, J-06, J-07, J-08, BIMA | lulus | J-01: belum masuk, masuk sebagai anggota (menu J-04/J-05 saja), masuk sebagai reviewer (J-07); J-02: tanpa templat (S-1), masa berjalan (9a), draf tersimpan dibuka kembali; J-03: butir Perlu ditinjau muncul pada skenario khusus dan hilang pada skenario normal; J-05: belum ada penilaian final lalu data pemantauan contoh; J-06: Terkirim, Ditahan, Ditolak, dan Sedang diperiksa; J-07: kosong, Baru, Draf, Selesai; J-08: final hanya-baca, perlu diperiksa manual, belum ada rekomendasi, draf, normal; BIMA tiruan: halaman pengajuan membuka draf siap diajukan; tanpa galat konsol (204.4 dtk) |
+| Navigator demo: sakelar masa pengusulan, papan ketik, dan ciut | lulus | sakelar masa pengusulan di navigator mengganti keadaan J-04 (berjalan lalu ditutup); papan ketik: Esc menciutkan, Alt+Shift+N membuka, fokus pindah ke panel, Tab menjangkau tombol; navigator ciut tidak menutupi tombol utama di J-04 (viewport 1440x900); tanpa galat konsol (16.2 dtk) |
+| J-04 skala nyata: 10.000 proposal (S-1, susun, halaman, sebaran, tetapkan, kotak masuk BIMA) | lulus | menyiapkan skenario skala nyata (buka J-04): 12.9 dtk; S-1 batas 60: panel Kekurangan Reviewer tampil (7.9 dtk); Susun Usulan Penugasan 10.000 proposal: 12.5 dtk dari klik sampai pesan (Waktu proses di server: 8,5 detik); tabel Usulan Penugasan 50 baris dari 10.000 (halaman 1 dari 200); Sebaran Beban 119 reviewer, 119 reviewer bersedia; jumlah proposal per reviewer terendah 84, tertinggi 85, rata-rata 84, batas 100.; halaman 2 usulan terbuka dalam 2.2 dtk; Tetapkan Penugasan 10.000 proposal: 4.4 dtk dari klik sampai pesan (Waktu proses di server: 4,1 detik); kotak masuk BIMA: 10.000 penugasan diterima tanpa ganda, ringkasan + 100 pesan terbaru; CATATAN WAKTU: susun 12.5 dtk, tetapkan 4.4 dtk (klik sampai pesan, lokal ke Neon); tanpa galat konsol (44.4 dtk) |
+| Skenario kecil tidak terpengaruh data skala nyata | lulus | skenario siap-kecil sesudah skala nyata: 6.4 dtk; 5 reviewer bersedia; jumlah proposal per; J-07 Semua Selesai dan Baru tepat 1 baris (tanpa penugasan skala); kotak masuk B-2 tetap memuat 10000 penugasan; /bima/masuk menyembunyikan akun skala (11 akun tampil); tanpa galat konsol (24.8 dtk) |
+| Akhir: Reset & isi data demo (basis data bersih) | lulus | reset selesai; /demo memuat 36 kartu skenario per jendela dan tanpa navigator mengambang; tanpa galat konsol (17.8 dtk) |
 
 ## Tangkapan layar (1440x900)
 

diff --git a/docs/keputusan.md b/docs/keputusan.md
@@ -45,3 +45,7 @@ membantu DPPM memeriksa proposal penelitian secara administratif.
       masa pengusulan. Menggantikan panel pemandu langkah *real use case* (data langkah tetap di `src/lib/demo/pemandu/`).
 11. Bahasa antarmuka: Bahasa Indonesia.
 12. Commit tanpa atribusi AI (tanpa baris Co-Authored-By atau Generated-with).
+
+## Data skala nyata (22 Okt 2026)
+
+Data skenario J-04 "skala" (10.000 proposal, periode "Skala Nyata 2026", pesan SKL-2026-* di kotak masuk BIMA, penugasannya) tidak dihapus oleh skenario lain; hanya "Reset & isi data demo" yang menghapusnya. Kumpulan reviewer periode skala hanya akun `rvw-skala-*` (reviewer contoh reviewer-1..5 tidak ikut dibagi), dan periode lain tidak memakai akun `rvw-skala-*`. Akun `rvw-skala-*` disembunyikan dari /bima/masuk.
